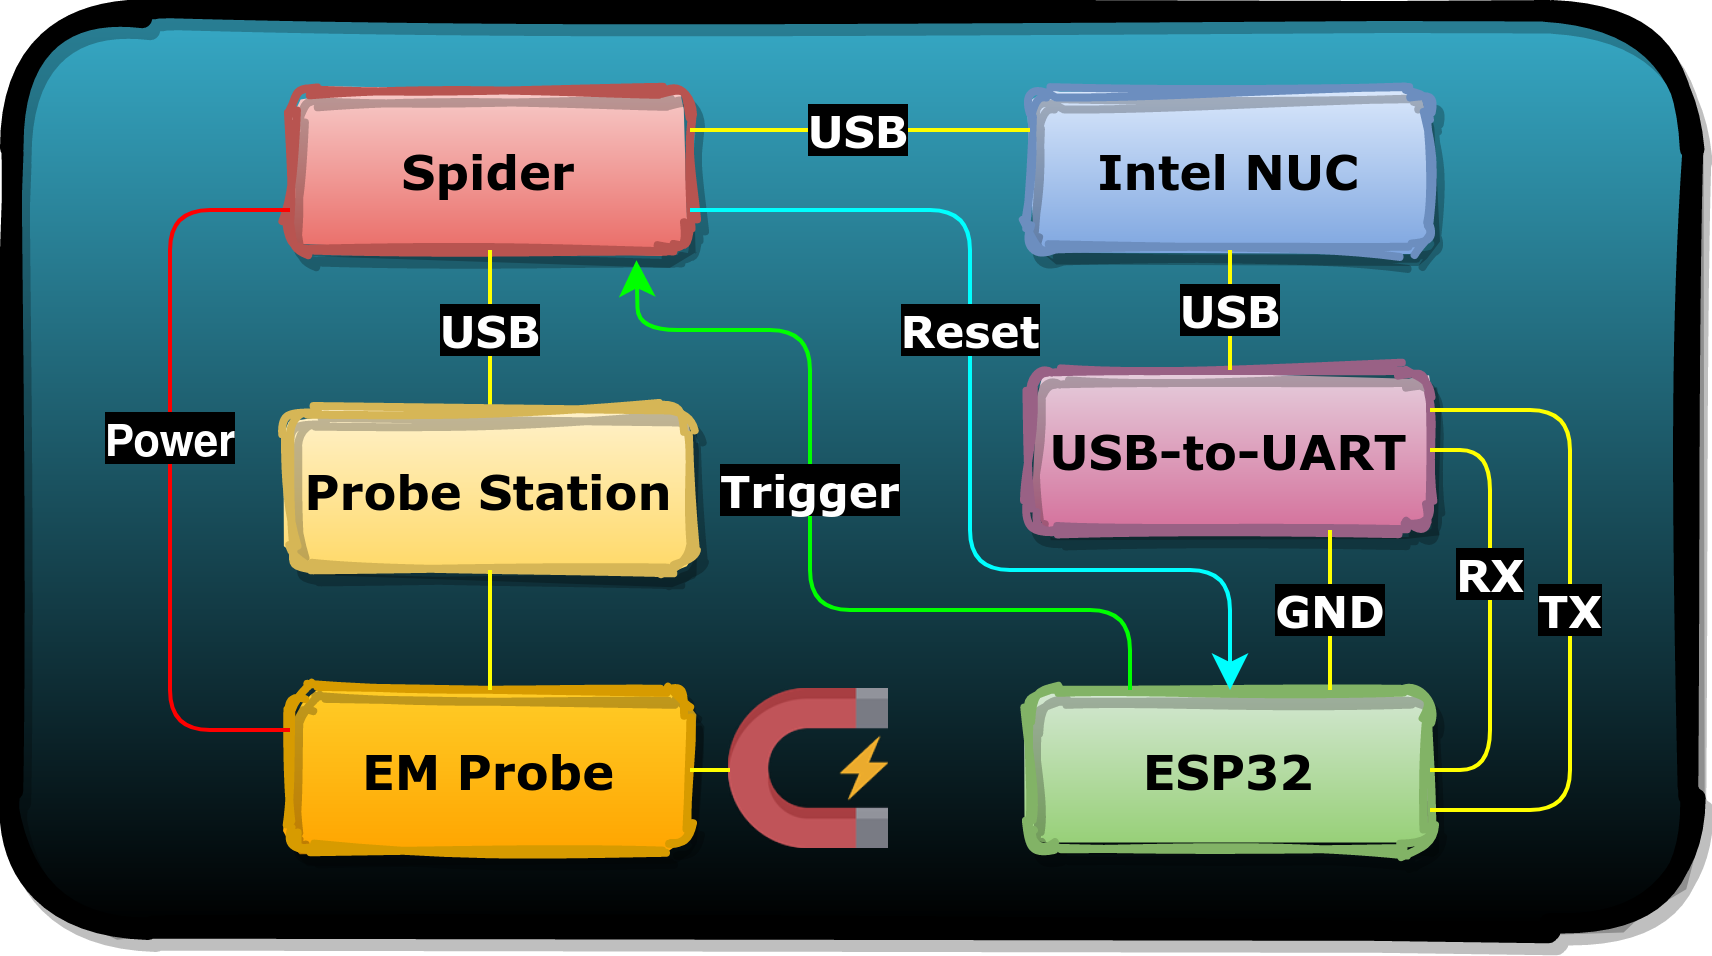
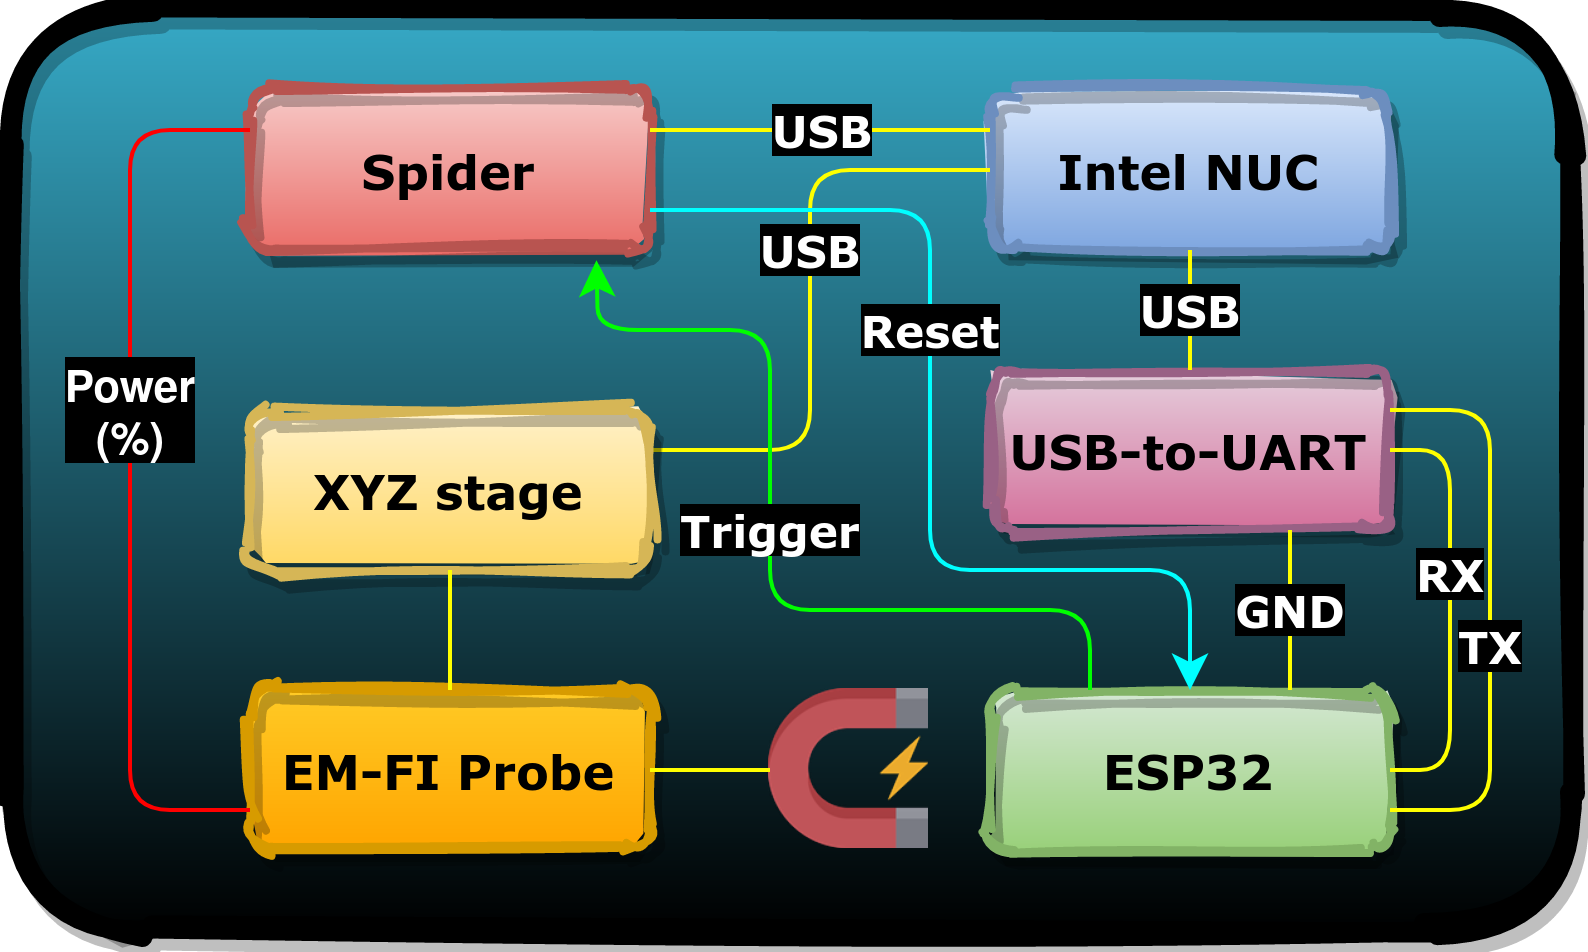
resolved typos in esp32 post #1

diff --git a/posts/espressif-systems-esp32-bypassing-sb-using-emfi/index.html b/posts/espressif-systems-esp32-bypassing-sb-using-emfi/index.html
@@ -28,14 +28,12 @@
 <p>We believe that our results may be achieved using low cost (e.g. <a href="http://store.newae.com/chipshouter-kit/"target="_blank">ChipShouter</a>) or Do-It-Yourself (e.g. <a href="https://github.com/RedBalloonShenanigans/BADFET"target="_blank">BADFET</a>) tooling as well. However, this type of tooling may be limiting and is often not able to sufficiently sweep the <strong>glitch parameter</strong> search space. Nonetheless, we believe that once a <strong>FI</strong> vulnerability is identified and exploited, and therefore the required <strong>glitch parameters</strong> are known, <strong>low cost tooling</strong> may be tuned or built to inject a successful glitch.</p>
 <p>To set ourselves up for success, being able to sweep the glitch parameter search space efficiently, we use the following components to conduct our <strong>FI</strong> research:</p>
 <ul>
-<li><a href="https://www.riscure.com/security-tools/inspector-fi/"target="_blank">Riscure Inspector FI</a></li>
 <li><a href="https://www.riscure.com/product/spider/"target="_blank">Riscure Spider</a></li>
-<li><a href="https://getquote.riscure.com/en/quote/2101068/em-fi-transient-probe.htm"target="_blank">Riscure EM Probe</a></li>
-<li><a href="https://getquote.riscure.com/en/quote/2101124/xyz-stage-for-em-probe-em-fi-or-compact-laser.htm"target="_blank">Riscure Probe Station</a></li>
-<li><a href="https://www.picotech.com/oscilloscope/3000/usb3-oscilloscope-logic-analyzer"target="_blank">Picoscope 3000 series</a></li>
-<li><a href="https://www.intel.com/content/www/us/en/products/boards-kits/nuc.html"target="_blank">Intel NUC</a></li>
+<li><a href="https://getquote.riscure.com/en/quote/2101124/xyz-stage-for-em-probe-em-fi-or-compact-laser.htm"target="_blank">Riscure XYZ stage</a></li>
+<li><a href="https://getquote.riscure.com/en/quote/2101068/em-fi-transient-probe.htm"target="_blank">Riscure EM-FI Transient Probe</a></li>
+<li><a href="https://www.riscure.com/security-tools/inspector-fi/"target="_blank">Riscure Inspector FI Python</a></li>
 </ul>
-<p>We execute the Python framework offered by <a href="https://www.riscure.com/security-tools/inspector-fi/"target="_blank">Riscure Inspector FI</a> on our <a href="https://www.intel.com/content/www/us/en/products/boards-kits/nuc.html"target="_blank">Intel NUC</a> in order to communicate with the above components. A logical representation of the setup is shown below.</p>
+<p>We execute the <a href="https://www.riscure.com/security-tools/inspector-fi/"target="_blank">Inspector FI Python</a> framework on an <a href="https://www.intel.com/content/www/us/en/products/boards-kits/nuc.html"target="_blank">Intel NUC</a> in order to communicate with the above components. A logical representation of the setup is shown below.</p>
 <p style="text-align:center;">
 	<a href="/img/esp32/ESP32-fi-setup.png">
 		<img src="/img/esp32/ESP32-fi-setup.png" width="600px"
@@ -55,7 +53,7 @@
 		<img src="/img/esp32/nodemcu.png" width="300px">
 	</a>
 </p>
-<p>We removed the metal casing of the <strong>ESP32-WROOM-32</strong> package in order to place the tip of the <strong>EM Probe</strong> on the chip's surface. This is the only modification we made to the target in order to inject <strong>EM</strong> glitches.</p>
+<p>We removed the metal casing of the <strong>ESP32-WROOM-32</strong> package in order to place the tip of the <strong>EM-FI Probe</strong> on the chip's surface. This is the only modification we made to the target in order to inject <strong>EM</strong> glitches.</p>
 <h1 id="identification">Identification</h1>
 <p>The most important <strong>glitch parameters</strong> when performing <strong>EMFI</strong>, are <strong>position</strong>, <strong>power</strong> and <strong>timing</strong>. Tuning these parameters is not always trivial, especially when targeting something specific like <strong>Secure Boot</strong>. The combined parameter search space can be huge, especially if a fine grid is used for spatial positioning. Therefore, we typically start with an intermediate step that allows us to determine efficiently where exactly a chip is sensitive to <strong>EM</strong> glitches.</p>
 <p>It's relevant to point out, that the first step for <strong>FI</strong>, after building the setup, is to determine if the target is <strong>vulnerable</strong>. As such vulnerability is at the <strong>chip level</strong> (i.e. hardware), it does not matter if it is identified on a <strong>development board</strong> or an <strong>finalized device</strong> (i.e. the vulnerability is the same). That's why, if possible, we typically prefer to perform the initial research using a development board that's designed around the same or similar chip. Then, porting the attack to a finalized device, especially when the software is the same as well (e.g. ROM code), is often trivial.</p>
@@ -107,7 +105,7 @@
 </span><span class="c1"></span><span class="p">}</span>
 </code></pre></div><p>We generate the <strong>trigger high</strong> and the <strong>trigger low</strong> signal by driving a <strong>GPIO</strong> pin. This allows us to create a measurable <strong>attack window</strong> that encompasses the sled of <code>add</code> instructions. This increases our chances of injecting a successful glitch and allows us to identify the presence of a hardware vulnerability.</p>
 <h2 id="location">Location</h2>
-<p>We use the <strong>Probe Station</strong> to automatically move the <strong>EM Probe</strong> across the chip's surface. The <strong>Spider</strong> waits until the <strong>trigger</strong> is set high, effectively injecting the glitch exactly within the attack window. The attack window is defined by the moment the <strong>trigger</strong> goes high and the <strong>trigger</strong> goes low. We randomize both the <strong>timing within the attack window</strong> and the <strong>power</strong> of the <strong>EM Probe</strong>. We used a <strong>30 x 30 grid</strong> for our initial experiment.</p>
+<p>We use the <strong>XYZ stage</strong> to automatically move the <strong>EM-FI Probe</strong> across the chip's surface. The <strong>Spider</strong> waits until the <strong>trigger</strong> is set high, effectively injecting the glitch exactly within the attack window. The attack window is defined by the moment the <strong>trigger</strong> goes high and the <strong>trigger</strong> goes low. We randomize both the <strong>timing within the attack window</strong> and the <strong>power</strong> of the <strong>EM-FI Probe</strong>. We used a <strong>30 x 30 grid</strong> for our initial experiment.</p>
 <p>All experiments are grouped according to the behavior we observe. We assign a color to each experiment based on their group. All experiments that result in:</p>
 <ul>
 <li>no observable effect whatsoever are colored <span style="color: #74dc8d">green dots</span></li>
@@ -115,7 +113,7 @@
 <li>a different counter value (i.e. successful glitch) are are colored <span style="color: #e76a72">red diamonds</span></li>
 <li>an exception (e.g. illegal instruction) are colored <span style="color: #ec5598">magenta crosses</span></li>
 </ul>
-<p>We perform roughly 165,000 experiments in ~8.5 hours which are plotted in the graph shown below. For each experiment we move the <strong>EM probe</strong> and randomize the <strong>glitch power</strong> between <strong>10%</strong> and <strong>100%</strong> of the maximum power.</p>
+<p>We perform roughly 165,000 experiments in ~8.5 hours which are plotted in the graph shown below. For each experiment we move the <strong>EM-FI probe</strong> and randomize the <strong>glitch power</strong> between <strong>10%</strong> and <strong>100%</strong> of the maximum power.</p>
 <p style="text-align:center;">
 	<a href="/img/esp32/esp32-add-sled.png">
 		<img src="/img/esp32/esp32-add-sled.png" height="250px">
@@ -157,7 +155,7 @@
 </tbody>
 </table>
 <p>The <span style="color: #e76a72">red diamond</span> represents a location where we were able to introduce a successful glitch that introduced a fault that effected the increment of the counter without affecting the chip's continuation. Although we observed only a single successful glitch, it shows that the <strong>ESP32</strong> is susceptible to <strong>EM</strong> glitches.</p>
-<p>We achieved our first goal, we identified a hardware vulnerability. Let's see if we can <strong>exploit</strong> it by introducing faults that allow us to build an actual attack. We decided to fix the <strong>EM probe</strong> to the the location of the <strong>successful glitch</strong> the bypass of <strong>Secure Boot</strong>. This nicely reduces the glitch parameter search space by one entire dimension.</p>
+<p>We achieved our first goal, we identified a hardware vulnerability. Let's see if we can <strong>exploit</strong> it by introducing faults that allow us to build an actual attack. We decided to fix the <strong>EM-FI probe</strong> to the the location of the <strong>successful glitch</strong> the bypass of <strong>Secure Boot</strong>. This nicely reduces the glitch parameter search space by one entire dimension.</p>
 <h1 id="exploitation">Exploitation</h1>
 <p>The <strong>Espressif IoT Development Framework (ESP-IDF)</strong> includes convenient tools to <strong>build software</strong> (<code>idf.py</code>), <strong>burn eFuses</strong> (<code>espefuse.py</code>), <strong>generate keys</strong> (<code>espsecure.py</code>) and <strong>program the flash memory</strong> (<code>esptool.py</code>). We used these tooling extensively throughout while finding ways to exploit the vulnerability.</p>
 <h2 id="perform-a-sanity-check">Perform a sanity check</h2>
@@ -212,7 +210,7 @@
 </span><span class="gi">+ ets_main.c 371
 </span></code></pre></div><p>Now we have the <strong>Secure Boot</strong> implementation kick in, we can think about bypassing it by exploiting the hardware vulnerability we identified using <strong>EMFI</strong>.</p>
 <h2 id="timing-the-attack">Timing the attack</h2>
-<p>The <strong>identification</strong> phase allowed us to fix the <em>EM Probe</em> location and give some insights into the <strong>power</strong> that's required. Unfortunately, the <strong>trigger</strong> based on a <strong>GPIO pin</strong> could not be used any more, as the verification is performed by the <strong>ROM</strong> code, which cannot be modified. Therefore, we needed a new reference point for timing our <strong>FI</strong> attack.</p>
+<p>The <strong>identification</strong> phase allowed us to fix the *<em>EM-FI Probe(</em> location and give some insights into the <strong>power</strong> that's required. Unfortunately, the <strong>trigger</strong> based on a <strong>GPIO pin</strong> could not be used any more, as the verification is performed by the <strong>ROM</strong> code, which cannot be modified. Therefore, we needed a new reference point for timing our <strong>FI</strong> attack.</p>
 <p>We started by using the <strong>reset</strong> signal as the <strong>trigger</strong>, but this induced significant jitter in our timing. Therefore, we decided to use the <strong>flash</strong> activity to time our attack. This is often a great signal to use for triggering as it is often tightly coupled to the software execution, especially during <strong>Secure Boot</strong>.</p>
 <p>The activity on <strong>pin1</strong> of the <strong>flash</strong> is shown in <span style="color: #81dafc">blue</span> whereas the <strong>trigger</strong> signal that we derive from this activity is shown in <span style="color: #e76a72">red</span>.</p>
 <p style="text-align:center;">
